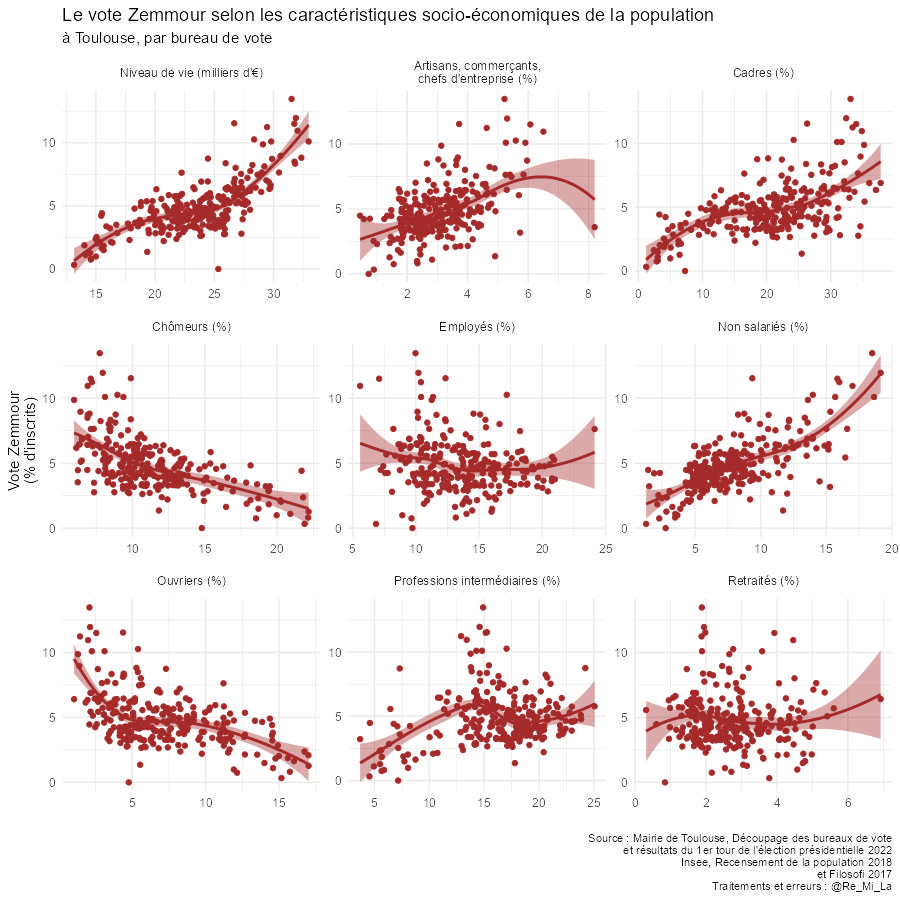
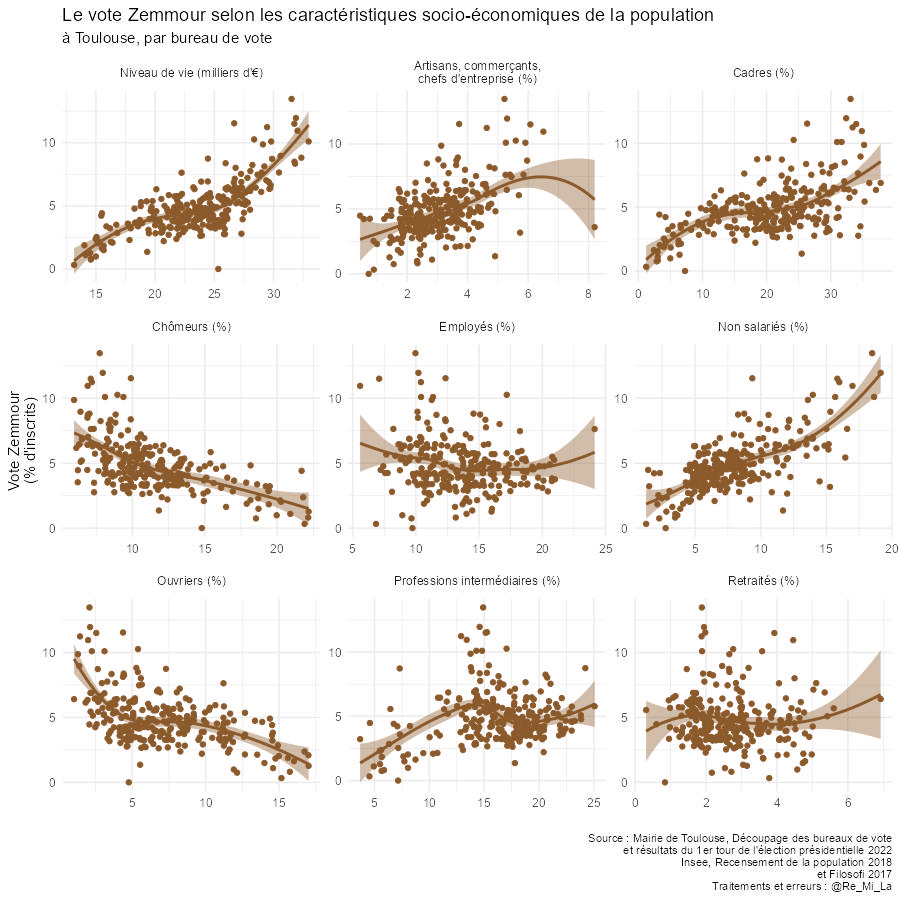
finalisation couleurs graph readme

diff --git a/README.md b/README.md
@@ -5,22 +5,22 @@
 <br>
 
 
-Voter à gauche aux scrutins présidentiels, mais à droite aux scrutins municipaux : tel est le soi-disant paradoxe toulousain (Fretel, 2002). Après avoir réélu en 2020 un maire Les Républicains, les toulousain-e-s ont massivement voté pour Mélenchon lors du premier tour de la présidentielle 2022 (28% des inscrit-e-s, contre 20% pour le n°2, Macron ; 36 % et 26 % en voix exprimées). Cette vague rouge repose sur une plus forte mobilisation de l'électorat des quartiers populaires mais aussi sur une union des électeur-ice-s de gauche derrière le candidat le plus à même d'accéder au second tour. Derrière cette apparente validation du paradoxe, l'analyse des résultats du 1er tour montre que les candidatures Macron et Zemmour créent une scission dans l'électorat traditionnel de la droite toulousaine. La candidate Les Républicains, soutenue par le maire, fait un score ridiculement faible (2 % des inscrit-e-s) laissant l'électorat Fillon de 2017 (17 % alors) se répartir entre la droite macroniste et l'extrême-droite.
+Voter à gauche aux scrutins présidentiels, mais à droite aux scrutins municipaux : tel est le soi-disant paradoxe toulousain. Après avoir réélu en 2020 un maire Les Républicains, les toulousain·e·s ont massivement voté pour Mélenchon lors du premier tour de la présidentielle 2022 (28 % des inscrit·e·s, contre 20 % pour le n°2, Macron ; 36 % et 26 % en voix exprimées). Cette vague rouge repose sur une plus forte mobilisation de l'électorat des quartiers populaires mais aussi sur une union des électeur·ice·s de gauche derrière le candidat le plus à même d'accéder au second tour. L'analyse des résultats du 1er tour montre que les candidatures Macron et Zemmour créent une scission dans l'électorat traditionnel de la droite toulousaine. La candidate Les Républicains, soutenue par le maire, fait un score ridiculement faible (2 % des inscrit·e·s) laissant l'électorat Fillon de 2017 (17 % alors) se répartir entre la droite macroniste et l'extrême-droite.
 
 ![image](https://user-images.githubusercontent.com/30465109/163381760-8c8569cd-6b0b-4812-8b6b-126273da112d.png)
 
 
 ## A gauche, Mélenchon mobilise plus fortement qu'en 2017 alors même que la social-écologie reste stable
 
-Au soir du 10 avril 2022, Mélenchon sort en tête de 163 bureaux de vote toulousains (sur 265). Il emporte 36 % des suffrages exprimés ou encore, plus intéressant ici pour inclure dans l'analyse l'abstention, 28 % des voix des personnes inscrites sur les listes électorales. Par rapport à l'élection de 2017, il engrange 16 000 suffrages supplémentaires (de 21 % à 28 % des inscrit-e-s). En comparaison, Macron est en tête dans 50 bureaux de la ville (contre 52 pour l'abstention !) et conserve un score stable par rapport à 2017 avec 20 % des inscrit-e-s. Mélenchon et Macron étaient au coude-à-coude en 2017 ; en 2022 c'est donc bien une vague rouge qui parcourt la ville rose.
+Au soir du 10 avril 2022, Mélenchon sort en tête de 163 bureaux de vote toulousains (sur 265). Il emporte 36 % des suffrages exprimés ou encore, plus intéressant ici pour inclure dans l'analyse l'abstention, 28 % des voix des personnes inscrites sur les listes électorales. Par rapport à l'élection de 2017, il engrange 16 000 suffrages supplémentaires (de 21 % à 28 % des inscrit·e·s). En comparaison, Macron est en tête dans 50 bureaux de la ville (contre 52 pour l'abstention !) et conserve un score stable par rapport à 2017 avec 20 % des inscrit·e·s. Mélenchon et Macron étaient au coude-à-coude en 2017 ; en 2022 c'est donc bien une vague rouge qui parcourt la ville rose.
 
 ![image](https://user-images.githubusercontent.com/30465109/163043945-1ce95f3d-db9c-4747-9c14-f46dc0db2f51.png)
 
 #### L'Union Populaire enregistre ses meilleurs scores dans l'électorat... populaire
 
-Ce sont les bureaux qui comptent le plus d'ouvriers et de chômeurs qui donnent à Mélenchon ses meilleurs résultats : parfois jusqu'à plus de 40 % des inscrit-e-s, par exemple à X et Y. Le constat est valable également au regard du niveau de vie : Mélenchon est à 50 % (des inscrit-e-s) dans les bureaux où le niveau de vie moyen est inférieur à 15 000 euros par an. Inversement, il réalise ses plus mauvais scores (entre 10 % et 20 %) là où les cadres représentent plus de 30 % des travailleurs et où le niveau de vie annuel moyen est supérieur à 30 000 euros.
+Ce sont les bureaux qui comptent le plus d'ouvrier·ère·s et de chômeur·se·s qui donnent à Mélenchon ses meilleurs résultats : parfois jusqu'à plus de 40 % des inscrit-e-s, par exemple à X et Y. Le constat est valable également au regard du niveau de vie : Mélenchon est à 50 % (des inscrit·e·s) dans les bureaux où le niveau de vie moyen est inférieur à 15 000 euros par an. Inversement, il réalise ses plus mauvais scores (soit quand même entre 10 % et 20 %) là où les cadres représentent plus de 30 % des travailleur·se·s et où le niveau de vie annuel moyen est supérieur à 30 000 euros.
 
-Mais le candidat obtient également de bons scores dans les bureaux de classes moyennes. Il récolte 30 % des voix des inscrit-e-s parmi les bureaux dont le niveau de vie moyen est de 20 000 à 25 000 euros.
+Mais le candidat obtient également de bons scores dans les bureaux de classes moyennes. Il récolte 30 % des voix des inscrit·e·s parmi les bureaux dont le niveau de vie moyen est de 20 000 à 25 000 euros.
 
 ![image](https://user-images.githubusercontent.com/30465109/163063777-5c86237f-ee88-467a-9531-e3bf24867ec6.png)
 
@@ -36,16 +36,18 @@ Les deux blocs qui progressent entre 2017 et 2022 sont la gauche (Mélenchon, Ro
 
 #### La social-écologie reste stable
 
-En 2022, et contrairement à 2017, PS et EELV font cavalier seul. Leurs scores additionnés restent identiques malgré une probable évolution de l'électorat en 5 ans. Les résultats de Jadot sont bien plus corrélés aux résultats de Macron en 2017 que ne l'étaient ceux de Hamon. Parallèlement, les scores de Macron sont moins bons dans les bureaux où il était déjà faible en 2017, mais s'améliorent dans ceux où il était déjà bon. Jadot (et sans doute Hidalgo) auraient ainsi récoltés quelques votes de déçus du centre-gauche du macronisme.
+En 2022, et contrairement à 2017, PS et EELV font cavaliers seuls. Leurs scores 2022 additionnés restent équivalents au score Hamon de 2017 (7 % des inscrit·e·s) malgré une probable évolution de l'électorat en 5 ans. Les résultats de Jadot sont plus corrélés aux résultats de Macron en 2017 que ne l'étaient ceux de Hamon : le candidat EELV fait de meilleurs scores que l'ancien candidat PS là où Macron réussissait très bien 2017. Parallèlement, les scores de Macron diminuent dans les bureaux où ils étaient déjà faibles en 2017, mais s'améliorent dans ceux où il était déjà bon : Macron perd à gauche ce qu'il gagne à droite. Jadot et sans doute Hidalgo auraient ainsi récoltés certains votes de déçu·e·s du centre-gauche macroniste.
 
 ![image](https://user-images.githubusercontent.com/30465109/163464536-f3c23c83-fb26-4a8d-92f2-65cc00d3deb6.png)
 
-L'électorat de Jadot est très différent de celui de Mélenchon. Il enregistre ses meilleurs scores dans les bureaux à niveaux de vie moyens à aisés (de 20 000 euros à 30 000 euros), qui comptent très peu de chômeurs ou d'ouvriers. En revanche, les parts de cadres mais aussi de professions intermédiaires sont élevées (sans être maximales) dans les bureaux où il récolte plus de 5 % des voix des inscrit-e-s.
+L'électorat de Jadot est différent de celui de Mélenchon. Le candidat EELV enregistre ses meilleurs scores dans les bureaux à niveaux de vie moyens à aisés (de 20 000 euros à 30 000 euros), qui comptent très peu de chômeur·se·s ou d'ouvrier·ère·s. En revanche, les parts de cadres mais aussi de professions intermédiaires sont élevées (sans être maximales) dans les bureaux où il récolte plus de 5 % des inscrit·e·s.
 
 ![image](https://user-images.githubusercontent.com/30465109/163382372-9564519d-117c-48c6-bb36-19922a535f9e.png)
 
 
 ## A droite et à l'extrême droite, Macron et Zemmour fissurent l'électorat des Républicains 
+
+blabla
 
 #### Macron avance sur sa jambe droite
 
@@ -53,24 +55,24 @@ En 2017, Macron avait tiré à lui une partie de l'électorat du Parti Socialist
 
 ![image](https://user-images.githubusercontent.com/30465109/163381502-d1bb0025-cd95-446c-929b-9dc4c0e9a6ba.png)
 
-Son score augmente très linéairement avec le niveau de vie moyen de la population des bureaux de vote : moins de 10 % des inscrit-e-s lorsque le niveau de vie est inférieur à 15 000 euros, plus de 30% lorsque celui-ci est supérieur à 30 000 euros. Il enregistre ainsi ses meilleurs scores dans les quartiers qui comptent le plus de cadres mais aussi d'artisans, commerçants et chefs d'entreprise. En revanche, c'est dans les quartiers où vivent le plus d'ouvriers et de chômeurs qu'il est au plus bas (moins  de 15 % des inscrit-e-s).
+Son score augmente très linéairement avec le niveau de vie moyen de la population des bureaux de vote : moins de 10 % des inscrit·e·s lorsque le niveau de vie est inférieur à 15 000 euros, plus de 30 % lorsque celui-ci est supérieur à 30 000 euros. Il enregistre ainsi ses meilleurs scores dans les quartiers qui comptent le plus de cadres mais aussi d'artisan·e·s, commerçant·e·s et chef·fe·s d'entreprise. En revanche, c'est dans les quartiers où vivent le plus d'ouvrier·ère·s et de chômeur·se·s qu'il est au plus bas (moins de 15 % des inscrit·e·s).
 
 ![image](https://user-images.githubusercontent.com/30465109/163381442-a62b478f-ff72-484f-aa3b-2c24466320f6.png)
 
 #### Zemmour attire une partie de l'électorat tradionnel de la droite
 
-La carte des scores de Zemmour n'a pas beaucoup de points communs avec celle de Le Pen. Celle-ci enregistre ses meilleurs scores aux confins de la ville : la carte montre clairement un gradient qui progresse au fur et à mesure que les bureaux sont éloignés de l'hypercentre. La géographie du vote Zemmour colle au contraire très bien au vote Fillon de 2017 : c'est à Côte Pavée, Limayrac, Carmes, Saint-Etienne et Pouvourville qu'ils réalise plus de 5 % voire plus de 10%.
+La carte des scores de Zemmour n'a pas beaucoup de points communs avec celle de Le Pen. Celle-ci enregistre ses meilleurs scores aux confins de la ville : la carte montre clairement un gradient qui progresse au fur et à mesure que les bureaux s'éloignent de l'hypercentre. La géographie du vote Zemmour colle au contraire très bien au vote Fillon de 2017 : c'est à Côte Pavée, Limayrac, Carmes, Saint-Etienne et Pouvourville qu'il réalise plus de 5 % voire plus de 10 %.
 
 ![image](https://user-images.githubusercontent.com/30465109/163382136-c408924a-af71-4be4-93cd-3c3418cc99b4.png)
 
 ![image](https://user-images.githubusercontent.com/30465109/163382188-c2d4621e-c7ca-490e-8db2-d3db6776b127.png)
 
-Sociologiquement, les bureaux où Zemmour réussit le mieux sont d'ailleurs plus proches de ceux de Fillon 2017 : part élevée de cadres, d'artisans, commerçants et chefs d'entreprise et des ménages les plus riches. Les bureaux les plus favorables à Le Pen (plus de 10 %) sont au contraire composés de parts élevées d'ouvriers, d'employés et de professions intermédiaires. En revanche, dans les quartiers qui comptent le plus d'ouvriers et de chômeurs, la candidate qui souhaite instaurer une "préférence nationale" réalise certains de ses moins bons scores.
+Sociologiquement, les bureaux où Zemmour réussit le mieux sont d'ailleurs plus proches de ceux de Fillon 2017 : part élevée de cadres, d'artisan·e·s, commerçant·e·s et chef·fe·s d'entreprise et des ménages les plus riches. Les bureaux les plus favorables à Le Pen (plus de 10 %) sont au contraire composés de parts élevées d'ouvrier·ère·s, d'employé·e·s et de professions intermédiaires. En revanche, dans les quartiers qui comptent le plus d'ouvrier·ère·s et de chômeur·se·s, la candidate qui souhaite instaurer une "préférence nationale" réalise certains de ses moins bons scores.
 
 ![image](https://user-images.githubusercontent.com/30465109/163476317-5b167127-96cf-450d-9919-a7bfa7a0cebd.png)
 ![image](https://user-images.githubusercontent.com/30465109/163476368-eb5ce1b5-bdb3-4ee1-896c-687c4da278bd.png)
 
-L'étude de la corrélation entre les votes Macron, Le Pen, Zemmour et le vote Fillon 2017 confirme ces analyses. C'est principalement dans les bureaux où Fillon enregistrait en 2017 ses meilleurs scores que le score Macron progresse. Du côté de l'extrême droite, les votes Le Pen 2017 et 2020 sont corrélés négativement au vote Fillon, à l'inverse du vote Zemmour.
+L'étude de la corrélation entre les votes Macron, Le Pen, Zemmour en 2022 et le vote Fillon en 2017 confirme ces analyses. C'est principalement dans les bureaux où Fillon enregistrait en 2017 ses meilleurs scores que le score Macron progresse : si Macron a perdu une partie de l'électorat de centre gauche il a en revanche conquis une partie de l'électorat des Républicains. Du côté de l'extrême droite, les votes Le Pen 2017 et 2020 sont corrélés négativement au vote Fillon, à l'inverse du vote Zemmour. La candidate du Rassemblement National a un électorat de classes moyennes et populaires très différent de l'électorat de la droite classique. En revanche, le vote Zemmour suit une répartition très proche du vote Pécresse, les scores de ces deux candidat·e·s étant d'ailleurs pareillement et très fortement corrélés au vote Fillon (environ 0,90).
 
 
 ![image](https://user-images.githubusercontent.com/30465109/163458893-760e9248-d016-4b54-b52a-e30ac0c175c3.png)
